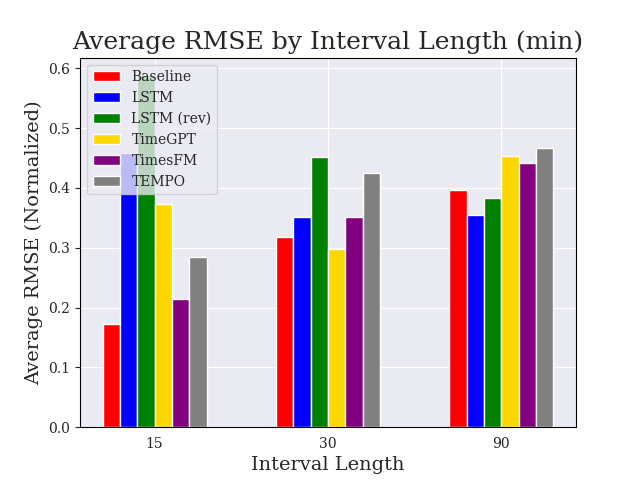
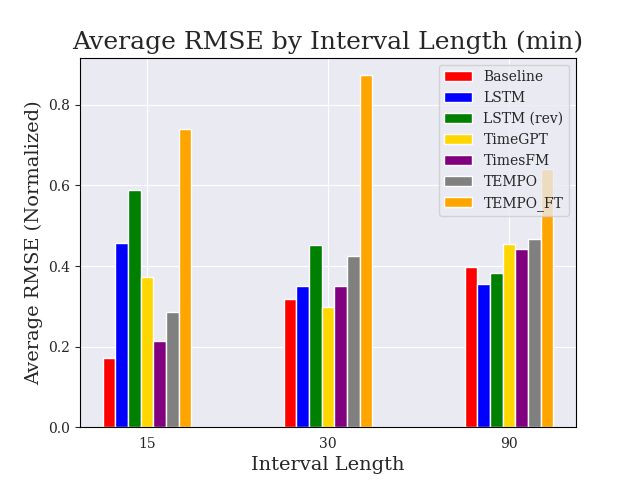
comparison with tempo ft

diff --git a/src/experiments/evaluations.py b/src/experiments/evaluations.py
@@ -30,8 +30,8 @@ from src.utils import searching_all_files
 from src.models.baseline import LinearInterpolation
 from src.models.statsforecast import StatsModels
 from src.models.LSTMs import LSTM, BidirectionalLSTM
-# from src.models.TimeGPT import TimeGPT
-# from src.models.TimesFM import TimesFM
+from src.models.TimeGPT import TimeGPT
+from src.models.TimesFM import TimesFM
 from src.models.TempoGPT import TempoGPT
 
 
@@ -72,8 +72,8 @@ class DirectEvaluation:
         """
         self.model = model
         
-        if not version_path and type(model) not in  [LinearInterpolation, StatsModels, TempoGPT]:
-            raise Exception("version_path cannot be None unless model is LinearInterpolation, StatsModels or TimeGPT.")
+        if not version_path and type(model) not in  [LinearInterpolation, StatsModels, TimeGPT, TimesFM, TempoGPT]:
+            raise Exception("version_path cannot be None unless if model is LSTM-based")
         
         if version_path and type(model) == LSTM:
             state_dict = torch.load(version_path)
@@ -196,7 +196,7 @@ class DirectEvaluation:
                 y = dataset.values[:,-1]
                 y = y.reshape(-1,1)
                 y_av = np.mean(y)
-            elif type(self.model) in [TempoGPT]:
+            elif type(self.model) in [TimeGPT, TimesFM, TempoGPT]:
                 x = dataset.values[:,:-1]
                 y = dataset.values[:,-1]
                 y = y.reshape(-1,1)
@@ -221,14 +221,14 @@ class DirectEvaluation:
             criterion = lambda x,y: np.sqrt(np.mean(((x - y)/y_av)) ** 2)
 
             for ab_length in ablation_lens:
-                #if isinstance(self.model, TimesFM):
-                #    self.model = TimesFM(ablation_len=ab_length)
+                if isinstance(self.model, TimesFM):
+                   self.model = TimesFM(ablation_len=ab_length)
                 print(ab_length, flush=True)
                 for _ in range(repetitions):
                     data = self._prepare_data(x, y, ab_length, ablation_start)
                     self.model.fit(data["x_ablated"], data["y_ablated"])
                     y_ablation_pred = self.model.predict(data["x_ablation"], data["new_ablation_start"], units=units).reshape(-1,1)
-                    if type(self.model) in [LinearInterpolation, StatsModels, TempoGPT]:
+                    if type(self.model) in [LinearInterpolation, StatsModels, TimeGPT, TimesFM, TempoGPT]:
                         RMSE_list.append(criterion(y_ablation_pred, data["y_ablation"]).item())
                     else:
                         y_ablation_pred = y_ablation_pred.detach().numpy()

diff --git a/scripts/plot_utils.py b/scripts/plot_utils.py
@@ -122,7 +122,7 @@ def bar_chart_comp(
     with open(f"plots/{out_folder}/bar_dict.yaml", 'w') as file:
         yaml.dump(bar_dict, file)
     #grouped bar chart
-    barWidth = 0.1
+    barWidth = 0.07
     r1 = np.arange(len(int_len_list))
     for bars, color, mod_name in zip(bar_dict.values(), model_colors_list, model_name_list):
         plt.bar(r1, bars, color=color, width=barWidth, edgecolor='white', label=mod_name)
@@ -147,10 +147,11 @@ if __name__ == "__main__":
             f"{prefix}/{data}/{data}_lstm_rev.yaml",
             f"{prefix}/{data}/{data}_gpt.yaml",
             f"{prefix}/{data}/{data}_timesfm.yaml",
-            f"{prefix}/{data}/{data}_tempo.yaml"
+            f"{prefix}/{data}/{data}_tempo.yaml",
+            f"{prefix}/{data}/{data}_tempo_ft.yaml"
             ]
-        names = ["Baseline", "LSTM", "LSTM (rev)", "TimeGPT", "TimesFM", "TEMPO"]
-        colors = ["red", "blue", "green", "gold", "purple", "gray"]
+        names = ["Baseline", "LSTM", "LSTM (rev)", "TimeGPT", "TimesFM", "TEMPO", "TEMPO_FT"]
+        colors = ["red", "blue", "green", "gold", "purple", "gray", "orange"]
         len_list = [15, 30, 90]
         rep = 100
         out_folder = f"big_comp/{data}"
@@ -179,10 +180,11 @@ if __name__ == "__main__":
         f"{prefix}/{data}/{data}_lstm.yaml",
         f"{prefix}/{data}/{data}_gpt.yaml",
         f"{prefix}/{data}/{data}_timesfm.yaml",
-        f"{prefix}/{data}/{data}_tempo.yaml"
+        f"{prefix}/{data}/{data}_tempo.yaml",
+        f"{prefix}/{data}/{data}_tempo_ft.yaml"
         ]
-    names = ["Baseline", "LSTM", "TimeGPT", "TimesFM", "TEMPO"]
-    colors = ["red", "blue", "gold", "purple", "gray"]
+    names = ["Baseline", "LSTM", "TimeGPT", "TimesFM", "TEMPO", "TEMPO_FT"]
+    colors = ["red", "blue", "gold", "purple", "gray", "orange"]
     len_list = [15, 30, 90]
     rep = 100
     out_folder = f"big_comp/{data}"

diff --git a/src/actions/evaluate.py b/src/actions/evaluate.py
@@ -11,8 +11,8 @@ from src.models.LSTMs import LSTM, BidirectionalLSTM
 from src.models.baseline import LinearInterpolation
 from src.experiments.evaluations import DirectEvaluation
 from src.models.statsforecast import StatsModels
-# from src.models.TimeGPT import TimeGPT
-# from src.models.TimesFM import TimesFM
+from src.models.TimeGPT import TimeGPT
+from src.models.TimesFM import TimesFM
 from src.models.TempoGPT import TempoGPT
 from src.models.TempoGPT import TempoConfig
 import argparse
